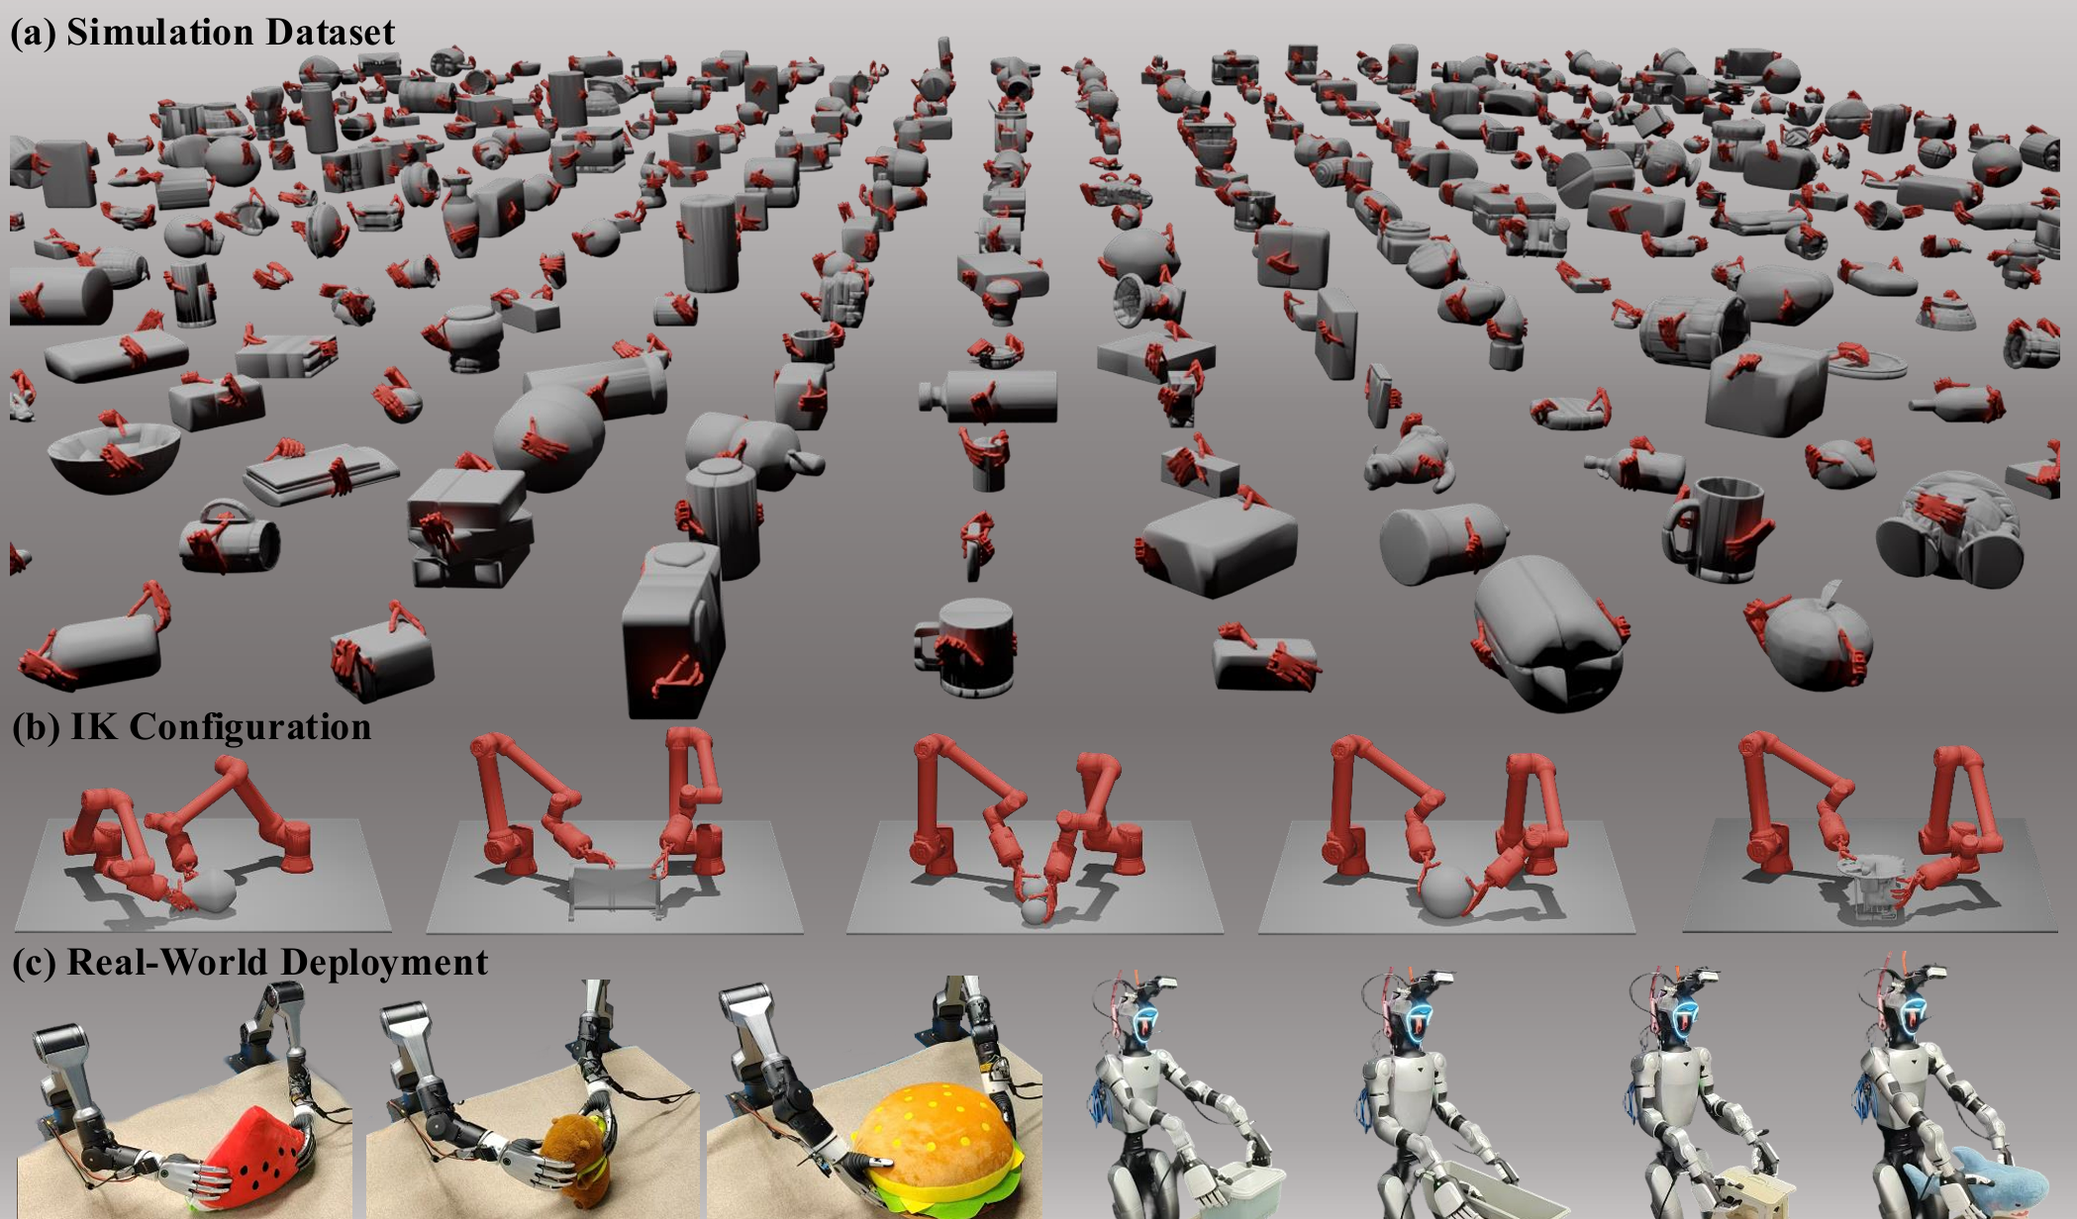
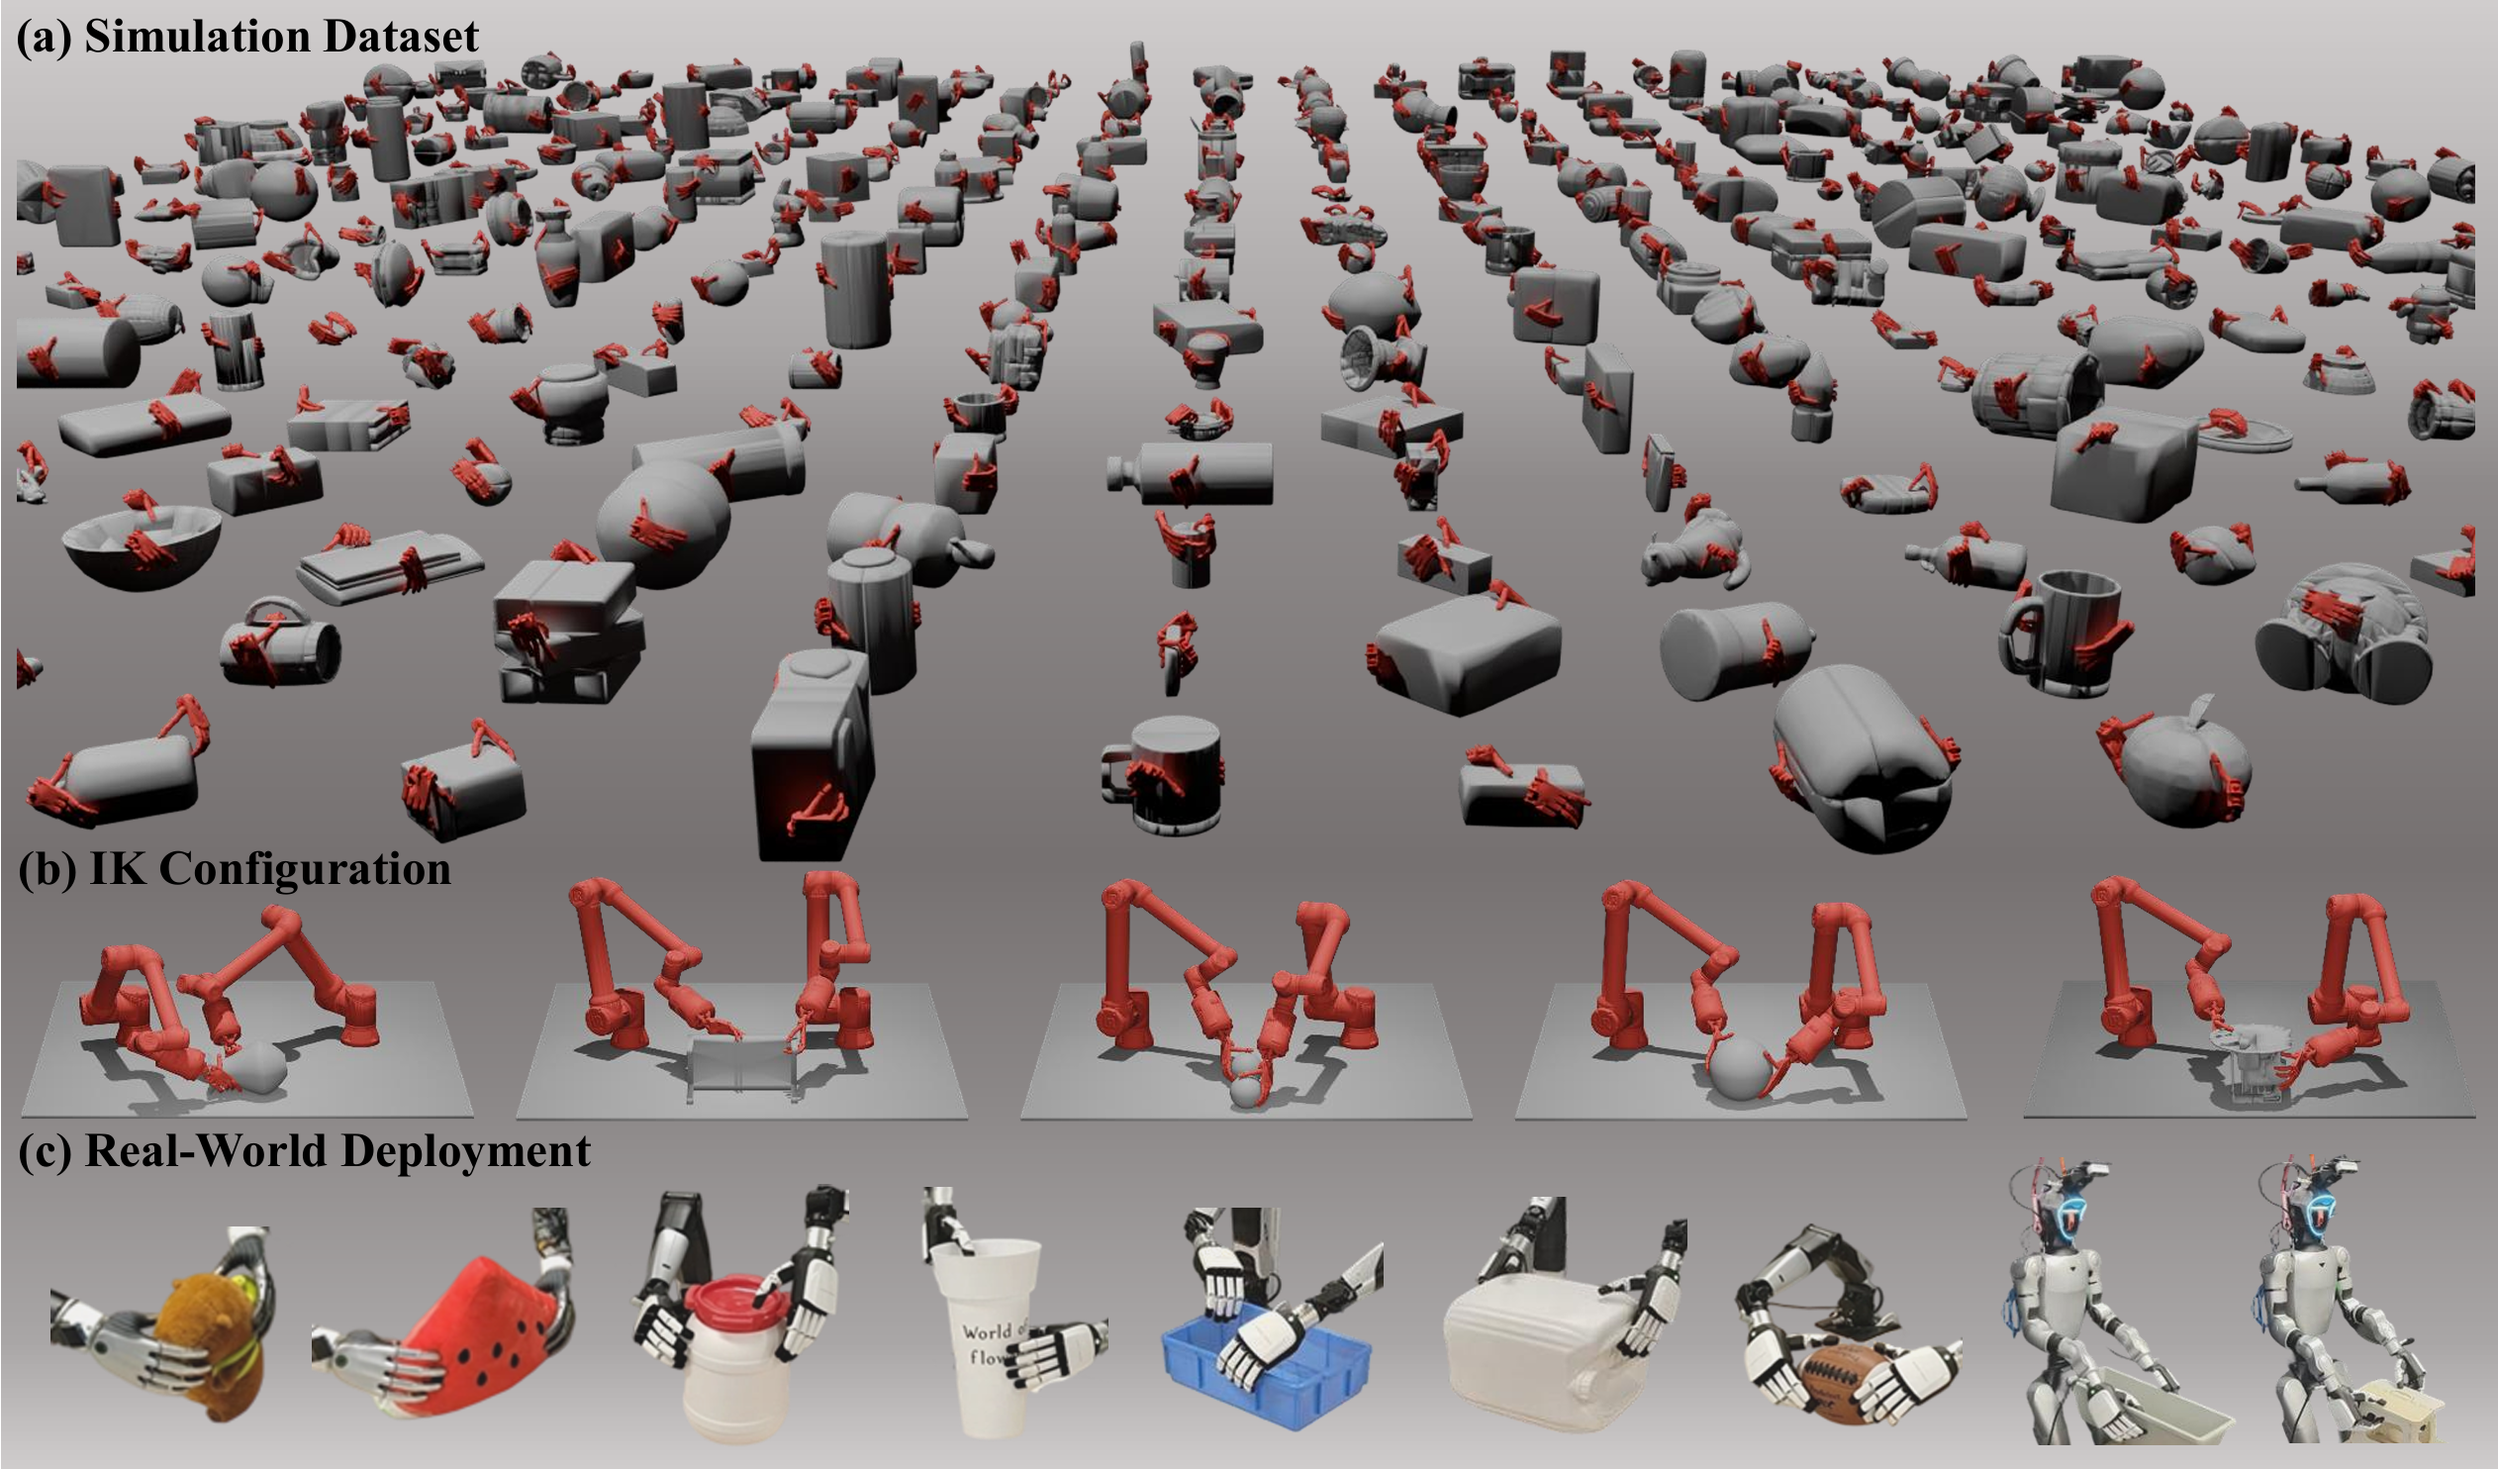
update

diff --git a/index.html b/index.html
@@ -9,7 +9,7 @@
   <meta name="author" content="Mu Lin">
   <meta name="viewport" content="width=device-width, initial-scale=1">
   <link rel="shortcut icon" href="images/favicon/favicon.ico" type="image/x-icon">
-  <link rel="stylesheet" type="text/css" href="stylesheet.css">
+  <link rel="stylesheet" type="text/css" href="stylesheet.css?v=20260411">
 
 </head>
 
@@ -55,7 +55,7 @@
                 <tr>
                   <td class="section-cell">
                     <h2>Publications</h2>
-                    <p class="section-note">*: equal contribution; †: corresponding author(s)</p>
+                    <p class="section-note">*: equal contribution; †: corresponding author(s). Papers with <span class="highlight">highlighted</span> background are my main contributions.</p>
                   </td>
                 </tr>
               </tbody>
@@ -64,7 +64,7 @@
             <div class="publication-wrap">
               <table class="publication-table">
                 <tbody>
-                  <tr class="pub-row" onmouseout="bidexgrasp_stop()" onmouseover="bidexgrasp_start()">
+                  <tr class="pub-row highlighted" onmouseout="bidexgrasp_stop()" onmouseover="bidexgrasp_start()">
                     <td class="pub-media">
                       <div class="media-frame one">
                         <div class="two" id="bidexgrasp_image">
@@ -89,7 +89,7 @@
                         <strong>Mu Lin*</strong>,
                         <a href="https://wyl2077.github.io/">Yi-Lin Wei*</a>,
                         Jiaxuan Chen,
-                        Yuhao Lin,
+                        <a href="https://yuhaolincode.github.io/">Yuhao Lin</a>,
                         <a href="https://github.com/Rain-Shuoyu">Shuoyu Chen</a>,
                         <a href="https://jiangranlv.github.io/">Jiangran Lyu</a>,
                         <a href="https://jychen18.github.io/">Jiayi Chen</a>,
@@ -110,7 +110,7 @@
                     </td>
                   </tr>
 
-                  <tr class="pub-row" onmouseout="afforddexgrasp_stop()" onmouseover="afforddexgrasp_start()">
+                  <tr class="pub-row highlighted" onmouseout="afforddexgrasp_stop()" onmouseover="afforddexgrasp_start()">
                     <td class="pub-media">
                       <div class="media-frame one">
                         <div class="two" id="afforddexgrasp_image">
@@ -135,7 +135,7 @@
                       <div class="pub-authors">
                         <a href="https://wyl2077.github.io/">Yi-Lin Wei*</a>,
                         <strong>Mu Lin*</strong>,
-                        Yuhao Lin,
+                        <a href="https://yuhaolincode.github.io/">Yuhao Lin</a>,
                         <a href="https://jianjian-jiang.github.io/">Jian-Jian Jiang</a>,
                         <a href="https://dravenalg.github.io/">Xiao-Ming Wu</a>,
                         <a href="https://www.lingan.art/">Ling-An Zeng</a>,
@@ -146,11 +146,43 @@
                         <a href="https://isee-laboratory.github.io/AffordDexGrasp/index.html">Project Page</a>
                         <span class="divider">/</span>
                         <a href="https://arxiv.org/abs/2503.07360">Arxiv</a>
-                        <span class="divider">/</span>
-                        <a href="https://isee-laboratory.github.io/AffordDexGrasp/index.html">Code(coming soon)</a>
+                        
                       </div>
                       <div class="pub-summary">Open-Set Language-guided dexterous grasp based on
                         generalizable-instructive Affordance.</div>
+                    </td>
+                  </tr>
+
+                  <tr class="pub-row">
+                    <td class="pub-media">
+                      <div class="media-frame one">
+                        <img class="pub-figure" src="images/asb-gac.png"
+                          alt="Humanoid whole-body manipulation preview">
+                      </div>
+                    </td>
+                    <td class="pub-content">
+                      <span class="papertitle">Humanoid Whole-Body Manipulation via Active Spatial Brain and
+                        Generalizable Action Cerebellum</span>
+                      <div class="pub-authors">
+                        Zhizhao Liang*,
+                        <a href="https://wyl2077.github.io/">Yi-Lin Wei*</a>,
+                        Xuhang Chen*,
+                        <strong>Mu Lin</strong>,
+                        Yi-Xiang He,
+                        <a href="https://zhexiluo.github.io">Zhexi Luo</a>,
+                        Jun-Hui Liu,
+                        <a href="https://kunyulin.github.io/">Kun-Yu Lin</a>,                        
+                        <a href="https://www.isee-ai.cn/~zhwshi/">Wei-Shi Zheng†</a>
+                      </div>
+                      <div class="pub-meta"><em>ArXiv</em>, 2026</div>
+                      <div class="pub-links">
+                        <a href="https://leungchaos.github.io/Humanoid-Whole-Body-Manipulation-via-Active-Spatial-Brain-and-Generalizable-Action-Cerebellum/">Project Page</a>
+                        <span class="divider">/</span>
+                        <a href="https://arxiv.org/abs/2605.21133">Arxiv</a>
+                      </div>
+                      <div class="pub-summary">A generalizable humanoid loco-manipulation framework that combines
+                        Active Spatial Brain for spatial perception and planning with Generalizable Action
+                        Cerebellum for executable whole-body robot actions.</div>
                     </td>
                   </tr>
 
@@ -181,7 +213,7 @@
                       <div class="pub-authors">
                         <a href="https://wyl2077.github.io/">Yi-Lin Wei*</a>,
                         <a href="https://zhexiluo.github.io/">Zhexi Luo*</a>,
-                        Yuhao Lin,
+                        <a href="https://yuhaolincode.github.io/">Yuhao Lin</a>,
                         <strong>Mu Lin</strong>,
                         Zhizhao Liang,
                         <a href="https://github.com/Rain-Shuoyu">Shuoyu Chen</a>,
@@ -226,7 +258,7 @@
                       <span class="papertitle">TypeTele: Releasing Dexterity in Teleoperation by Dexterous Manipulation
                         Types</span>
                       <div class="pub-authors">
-                        Yuhao Lin*,
+                        <a href="https://yuhaolincode.github.io/">Yuhao Lin*</a>,
                         <a href="https://wyl2077.github.io/">Yi-Lin Wei*</a>,
                         Haoran Liao,
                         <strong>Mu Lin</strong>,
@@ -274,7 +306,7 @@
                     <td class="experience-content">
                       <span class="papertitle">Sun Yat-sen University</span>
                       <div class="experience-role">B.E. from School of Computer Science and Engineering</div>
-                      <div class="experience-meta">2022 ~ Present</div>
+                      <div class="experience-meta">2022 ~ 2026</div>
                     </td>
                   </tr>
                 </tbody>
@@ -305,12 +337,26 @@
                         </div>
                         <span class="honor-meta">2022</span>
                       </li>
-                      <li class="honor-item">
+                      <!-- <li class="honor-item">
                         <div class="honor-text">
                           <strong class="honor-title">Top-Tier Undergraduate Program 2.0</strong>
                           <span class="honor-detail">Selected among the top 20 of 400 students</span>
                         </div>
                         <span class="honor-meta">Selected</span>
+                      </li> -->
+                      <li class="honor-item">
+                        <div class="honor-text">
+                          <strong class="honor-title">Outstanding Graduate</strong>
+                          <span class="honor-detail">Top 5% in Sun Yat-sen University</span>
+                        </div>
+                        <span class="honor-meta">2026</span>
+                      </li>
+                      <li class="honor-item">
+                        <div class="honor-text">
+                          <strong class="honor-title">Outstanding Undergraduate Thesis</strong>
+                          <span class="honor-detail">Top 5% in Sun Yat-sen University</span>
+                        </div>
+                        <span class="honor-meta">2026</span>
                       </li>
                     </ul>
                   </td>

diff --git a/stylesheet.css b/stylesheet.css
@@ -326,6 +326,11 @@ h2 {
   box-shadow: var(--shadow-soft);
 }
 
+.pub-row.highlighted {
+  background: linear-gradient(180deg, rgba(255, 249, 221, 0.98), rgba(255, 252, 238, 0.98));
+  border: 1px solid rgba(237, 198, 98, 0.52);
+}
+
 .pub-media {
   width: 27%;
   padding: 18px 10px 18px 18px;
